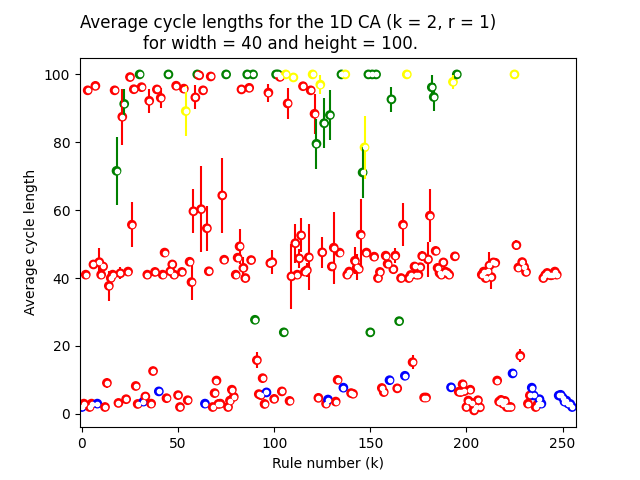
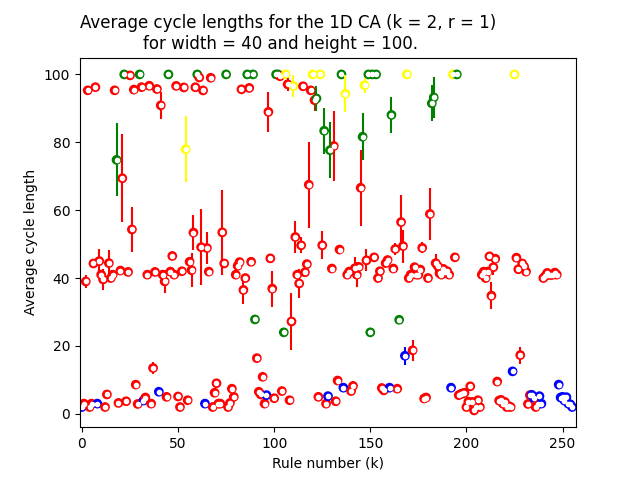
put "CASimTest" in ca.py

diff --git a/ca.py b/ca.py
@@ -1,6 +1,9 @@
 import numpy as np
+import matplotlib.pyplot as plt
 from numpy.random import random
 from matplotlib.patches import Patch
+import csv
+import sys
 from pyics import Model
 
 
@@ -112,12 +115,15 @@ class CASim(Model):
         plt.ylabel("time")
         plt.xlabel("position")
 
-        colors = ['white', 'black']
-        legend_elements = [Patch(facecolor=color, edgecolor='w') for color in colors]
-        plt.legend(handles=legend_elements,
-          labels=[f"value = 0", f"value = 1"],
-          loc="upper left", bbox_to_anchor=[1, 1])
-        
+        colors = ["white", "black"]
+        legend_elements = [Patch(facecolor=color, edgecolor="w") for color in colors]
+        plt.legend(
+            handles=legend_elements,
+            labels=[f"value = 0", f"value = 1"],
+            loc="upper left",
+            bbox_to_anchor=[1, 1],
+        )
+
         plt.title("%d generations" % self.t)
 
     def step(self):
@@ -140,9 +146,131 @@ class CASim(Model):
             self.config[self.t, patch] = self.check_rule(values)
 
 
-if __name__ == "__main__":
-    sim = CASim()
-    from pyics import GUI
+class CASimTest:
+    def csv_lst():
+        csv_filename = "rule_class_wolfram.csv"
+        with open(csv_filename) as f:
+            reader = csv.reader(f)
+            lst = list(reader)
+        return lst
 
-    cx = GUI(sim)
-    cx.start()
+    def __init__(self, width, height, k, r, init_row_prob):
+        self.sim = CASim()
+        self.sim.init_row_prob = init_row_prob
+        self.sim.width = width
+        self.sim.height = height
+        self.sim.k = k
+        self.sim.r = r
+        self.max_rule_num = self.sim.k ** (self.sim.k ** (2 * self.sim.r + 1))
+        self.average_cycle_lengths = []
+        self.errors = []
+
+    def run(self):
+        t = 0
+        self.sim.reset()
+        while t < self.sim.height:
+            self.sim.step()
+            t += 1
+
+    def sweep_rule(self, N):
+        """Run the simulation for each rule, N times. Compute the average cycle
+        length for each of the N different random intitial confgurations."""
+
+        for rule in range(self.max_rule_num):
+            self.sim.rule = rule
+
+            cycle_lengths = []
+            for _ in range(N):
+                self.run()
+                index_dict = self.make_index_dict()
+                cycle_lengths.append(self.cycle_length(index_dict))
+
+            self.average_cycle_lengths.append(np.mean(cycle_lengths))
+
+            # Use the standard error of the mean (SEM) as average cycle length
+            # errors, because cycle_lengths is a distribution of means.
+            self.errors.append(np.std(cycle_lengths) / np.sqrt(len(cycle_lengths)))
+
+    def make_index_dict(self):
+        """Make dictionary with a set of rows as keys and their indexes in the
+        simulation configuration as values.
+
+        Example:
+        The configuration array [[1 1 1] [1 0 0] [1 1 1] [1 1 1] [1 0 0]] will yield
+        index_dict = {(1, 1, 1): [0, 2, 3], (1, 0, 0): [1, 4]}"""
+
+        config_list = [tuple(config) for config in self.sim.config.tolist()]
+
+        index_dict = {}
+        for row, index in enumerate(config_list):
+            # Make a new row key in the dictionary or append the
+            # index if the key already existed
+            index_dict.setdefault(index, []).append(row)
+
+        return index_dict
+
+    def cycle_length(self, index_dict):
+        """Calculate the average cycle length of a simulation configuration by
+        calculating the differences of the indexes for each row and taking the
+        average."""
+
+        cycle_lengths = []
+        for _, indexes in index_dict.items():
+            # if the row was an unique row in the simulation configuration, take
+            # the height as the max cycle length.
+            if len(indexes) == 1:
+                cycle_lengths.append(self.sim.height)
+            else:
+                diffs = np.diff(np.array(indexes))
+                cycle_lengths.extend(diffs)
+
+        return np.mean(cycle_lengths)
+
+    def plot(self):
+        rules = [rule for rule in range(self.max_rule_num)]
+        figure = plt.figure()
+
+        lst = CASimTest.csv_lst()
+        color_list = ["purple", "blue", "red", "green", "yellow"]
+
+        color_index_list = []
+        for pair in lst:
+            ca_code = eval(pair[1])
+            color_index_list.append(color_list[ca_code])
+
+        plt.ylabel("Average cycle length")
+        plt.xlabel("Rule number (k)")
+        plt.title(
+            f"""Average cycle lengths for the 1D CA (k = {self.sim.k}, r = {self.sim.r})
+            for width = {self.sim.width} and height = {self.sim.height}.""",
+            loc="left",
+        )
+        plt.xlim(-1, self.max_rule_num + 1)
+
+        plt.errorbar(
+            rules,
+            self.average_cycle_lengths,
+            yerr=self.errors,
+            fmt=".",
+            ecolor=color_index_list,
+            mfc="white",
+            mec="white",
+        )
+        plt.scatter(rules, self.average_cycle_lengths, c=color_index_list, marker="o")
+        figure.savefig("cycle_lengths")
+        plt.show()
+
+
+if __name__ == "__main__":
+
+    if len(sys.argv) > 1 and sys.argv[1] == "gui":
+        sim = CASim()
+        from pyics import GUI
+
+        cx = GUI(sim)
+        cx.start()
+
+    else:
+        sim_test = CASimTest(width=40, height=100, k=2, r=1, init_row_prob=0.4)
+        sim_test.sweep_rule(N=10)
+        sim_test.plot()
